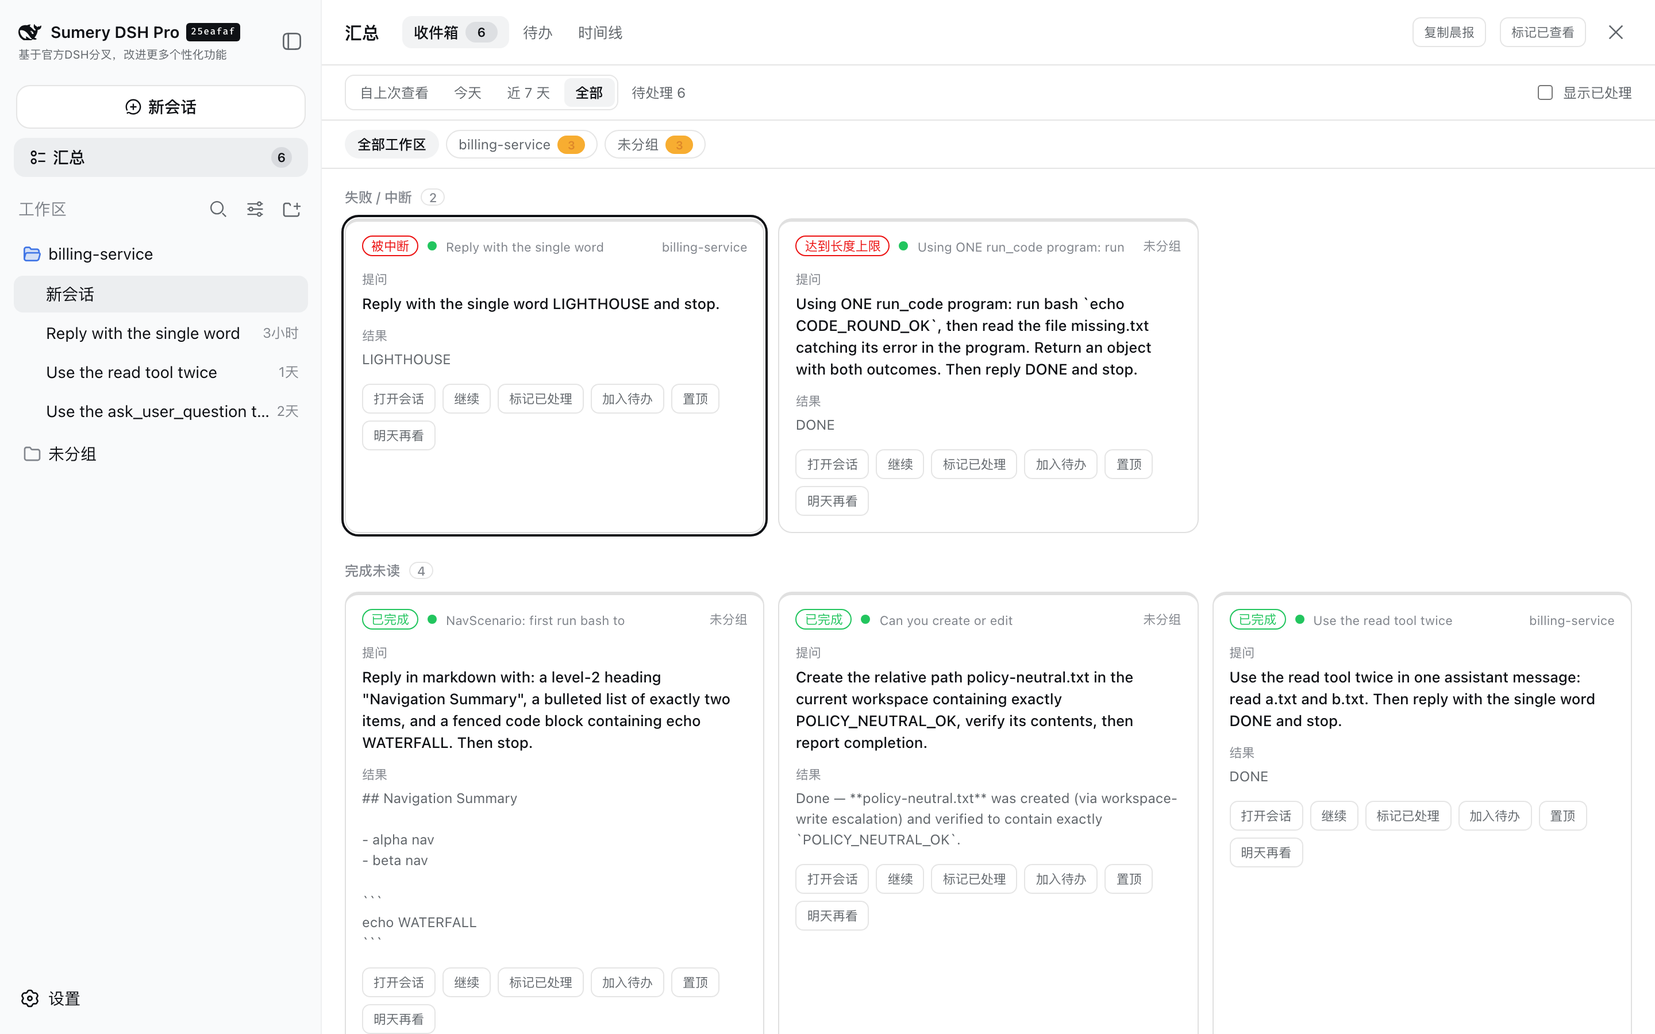
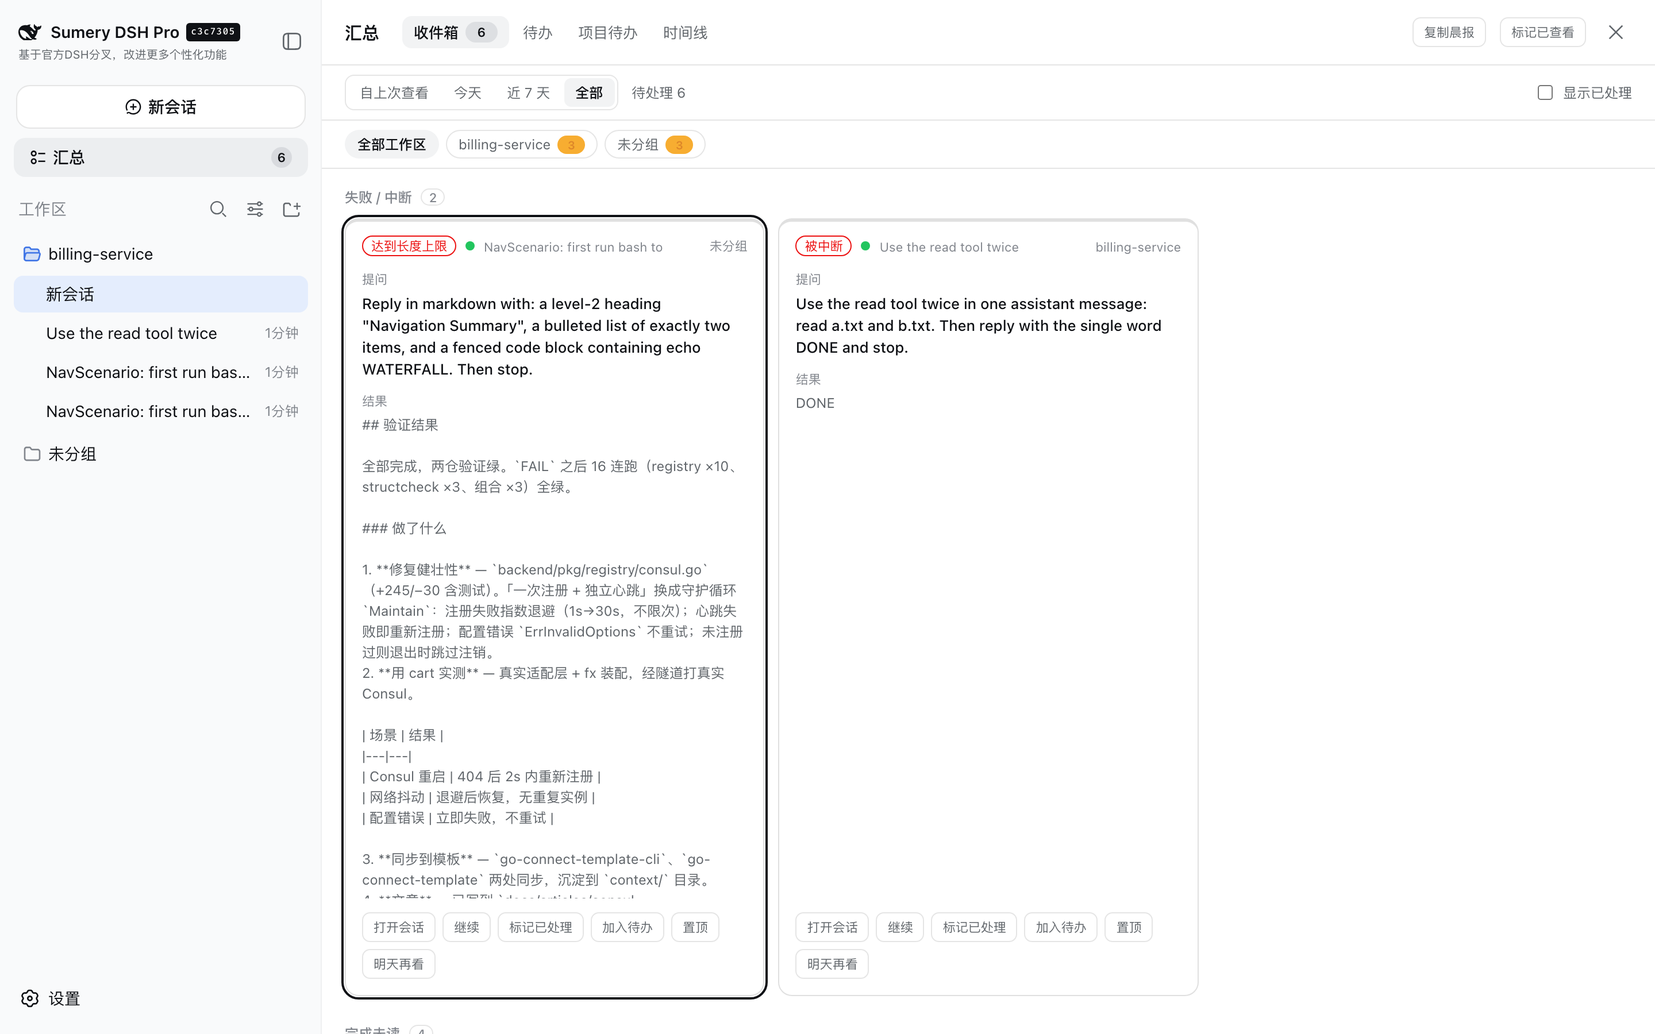
docs(readme): lead with the inbox, describe the card cap and sidebar reveal, and reword the run-from-source path

diff --git a/README.md b/README.md
@@ -6,6 +6,26 @@ English | [中文](README.zh.md)
 
 This is a personal fork of [deepseek-ai/deepseek-harness](https://github.com/deepseek-ai/deepseek-harness). Upstream is the source of truth for the project; this repository is not affiliated with DeepSeek AI and carries no support commitment.
 
+### The inbox: what needs you, across every workspace
+
+![The inbox on a working day: one failed/interrupted session and one finished-unread session across nine workspaces, with the time-window and status filters, the workspace chips, and the card actions; session names and text are blurred](docs/user/guide/inbox-overview.png)
+
+**A durable inbox instead of a green dot.** Work left running overnight across several workspaces left no record the next morning: the sidebar's "finished" dot was a browser-memory bit that cleared on click or refresh, and a session blocked on an approval waited unnoticed. The **汇总** entry under New Session now carries the number of sessions that need you and opens an inbox over the center column. Rows are sectioned by why they need attention — waiting for your reply, failed or interrupted, finished but unread, seen but not handled, running — with a time window that defaults to "since you last reviewed", workspace chips with per-workspace counts, and card actions to open, continue with a prefilled composer, mark handled, add a todo, pin, or snooze until tomorrow. `Ctrl+1` opens and closes the panel from anywhere, including mid-sentence in the composer, and the card actions ride a keyboard ring (`j`/`k`, `Enter`, `e`, `t`, `p`, `s`); "copy brief" puts the sections on the clipboard as Markdown. Every mark lives on the Host — which reply you saw, what you handled, what is snoozed or pinned — so it survives refresh, another browser, and a restart, and the number also prefixes the browser tab title. A card is never taller than the panel: its head and action row stay put while a long answer scrolls inside the card, and **打开会话** reveals the session in the sidebar — reopening a folded workspace, lifting the **Show more** cut, unfolding nested branches, and moving the selection onto that row — so the highlighted row is always the one you opened. A fourth tab, **项目待办**, lists the `TODO.md`-style documents found across the configured roots and every workspace.
+
+![The inbox over the center column: the failed/interrupted section, workspace chips with counts, a long answer scrolling inside its card with the actions pinned below, and the todo, project todo, and timeline tabs](docs/user/guide/inbox-panel.png)
+
+**Todos that point back at the conversation.** A todo is a Host record addressed to a session and, optionally, to one question inside it. Add one from a card, from the right-click menu on any session row, or from the todo tab's input; open it with "jump to that question", which scrolls the transcript to the exact question, paging back through history when it is not loaded yet, or with "continue", which opens the session with a continuation line in the composer. Sessions whose last turn did not finish appear as automatic todos until you mark them handled.
+
+![The todo tab: one manual todo joined with its session and question, and two automatic todos for a interrupted and a length-limited turn](docs/user/guide/inbox-todos.png)
+
+![The session row's right-click menu with Add to todos above Archive](docs/user/guide/session-context-menu-todo.png)
+
+**A per-question timeline.** The digest projection now retains each session's earlier questions with their outcome and changed-file count, so the timeline tab places every question on the day it was asked — a session worked on three days appears on three days — and a row opens the session at that question.
+
+![The timeline tab grouping questions by day, each with its workspace, session, and outcome](docs/user/guide/inbox-timeline.png)
+
+### Session file rail and the other additions
+
 **Why it exists.** The Web client shows a session's file work only where it happened — one diff card per `edit`/`write` tool row, plus the closing turn's produced-file chips. Reviewing what a session did to the workspace therefore means scrolling the whole transcript and rebuilding the per-file story by hand, and a long session buries the answer under hundreds of steps. Nothing showed which files the agent was touching right now, and nothing collected one file's repeated edits into one place.
 
 **What it adds.** A session file rail beside the transcript listing what the session read and changed, plus an inline side-by-side diff — before on the left, after on the right, paired line by line — that opens by default and is governed by a General setting. Descendant subagent sessions are read through the durable child catalog and merged in, one row per file with each segment labelled by the agent, turn, and tool that made it. The design, its rejected alternatives, and its known limits are recorded in [the file panel Agent Note](.agents/notes/implemented/feature/2026-08-26-web-session-file-panel.md).
@@ -62,20 +82,6 @@ In context, on a custom provider's editor card — the fold sits under the row i
 
 ![The Settings navigation: General, Models, Plugins, Agent presets, Vision tools, and Conversation layout, each with its own glyph](docs/user/guide/settings-sections-nav.png)
 
-**A durable inbox instead of a green dot.** Work left running overnight across several workspaces left no record the next morning: the sidebar's "finished" dot was a browser-memory bit that cleared on click or refresh, and a session blocked on an approval waited unnoticed. The **汇总** entry under New Session now carries the number of sessions that need you and opens an inbox over the center column. Rows are sectioned by why they need attention — waiting for your reply, failed or interrupted, finished but unread, seen but not handled, running — with a time window that defaults to "since you last reviewed", workspace chips with per-workspace counts, and card actions to open, continue with a prefilled composer, mark handled, add a todo, pin, or snooze until tomorrow. `Ctrl+1` opens and closes the panel from anywhere, including mid-sentence in the composer, and the card actions ride a keyboard ring (`j`/`k`, `Enter`, `e`, `t`, `p`, `s`); "copy brief" puts the sections on the clipboard as Markdown. Every mark lives on the Host — which reply you saw, what you handled, what is snoozed or pinned — so it survives refresh, another browser, and a restart, and the number also prefixes the browser tab title.
-
-![The inbox over the center column: failed/interrupted and finished-unread sections, workspace chips with counts, and the card actions](docs/user/guide/inbox-panel.png)
-
-**Todos that point back at the conversation.** A todo is a Host record addressed to a session and, optionally, to one question inside it. Add one from a card, from the right-click menu on any session row, or from the todo tab's input; open it with "jump to that question", which scrolls the transcript to the exact question, paging back through history when it is not loaded yet, or with "continue", which opens the session with a continuation line in the composer. Sessions whose last turn did not finish appear as automatic todos until you mark them handled.
-
-![The todo tab: one manual todo joined with its session and question, and two automatic todos for a interrupted and a length-limited turn](docs/user/guide/inbox-todos.png)
-
-![The session row's right-click menu with Add to todos above Archive](docs/user/guide/session-context-menu-todo.png)
-
-**A per-question timeline.** The digest projection now retains each session's earlier questions with their outcome and changed-file count, so the timeline tab places every question on the day it was asked — a session worked on three days appears on three days — and a row opens the session at that question.
-
-![The timeline tab grouping questions by day, each with its workspace, session, and outcome](docs/user/guide/inbox-timeline.png)
-
 **How the screenshots are made.** Every picture above is a real screen from this fork's own build, never a mock-up. To keep personal sessions and keys out of them, a second `dsh web` is started from the checkout's source against an isolated home (`DSH_HOME=/private/tmp/dsh-demo-home`, port 3099): its profile lists only the base bundle, the web app, and the vision bundle, and its `settings.yaml` declares a fictitious `acme-gateway` provider with an `acme-vision-think` model — no API key, no sessions, no workspace. The inbox pictures come from the same kind of isolated server, this time launched through the repository's own web test scaffold: six sessions are seeded from the e2e fixture logs under `apps/web/tests/snapshots/`, parsed with the repository's `parseSessionLog` and persisted through the real JSONL backend, two of them with their final `turn/end` rewritten to `interrupted` and `max-tokens` so the failed section has rows; Playwright at device scale 2 in `zh-CN` then adds a todo from a card, pins a row, switches tabs, and right-clicks a session row, and every picture is the screen at that moment. Playwright drives Firefox at device scale 2 in the light theme, once per language, and clicks through the same path a user would: Settings → Models → Edit → Customized settings → Advanced. The Models-page pictures were then verified as a round trip rather than a rendering: checking two more levels and saving through the card rewrote the isolated `settings.yaml` with `off: null` and `minimal: minimal`, and the server's `llm.models` reply listed all seven levels for that model. The fixture provider and the fork's own product chrome are the only content, so nothing needs masking; the demo server, browser sessions, home directory, and temporary files are removed afterwards, and the personal `~/.dsh` and port 3080 are never touched. Any regression in the pictured behavior shows up in `pnpm run test:gui` (the component and shell suites) and in `DSH_SNAPSHOT=replay pnpm run test:web` (the assembled browser).
 
 **Repository.** This fork lives at [github.com/lens077/deepseek-harness](https://github.com/lens077/deepseek-harness); its `main` tracks upstream `main` and adds the features above on top. File problems with the fork's additions as issues on the fork; upstream behavior, releases, plugin discovery, and the Discord community remain upstream's, linked below. Everything here — upstream code and the fork's additions alike — is under the [MIT license](LICENSE), and third-party licenses are disclosed in [THIRD_PARTY_NOTICES.md](THIRD_PARTY_NOTICES.md).
@@ -106,7 +112,7 @@ The command starts the Web UI at `http://127.0.0.1:3080` by default and opens it
 
 ### Run from source
 
-Clone this fork, not upstream: its `main` is the state the features above were built and verified on, and it is rebased onto upstream regularly, so a fresh clone of it is the safest working checkout.
+Run from this repository's source. It pulls from the official [deepseek-ai/deepseek-harness](https://github.com/deepseek-ai/deepseek-harness) regularly and resolves the merge conflicts; the repository is fully public and transparent, with no poisoning of any kind — every change is in the commit history.
 
 ```sh
 git clone https://github.com/lens077/deepseek-harness.git
@@ -118,7 +124,7 @@ pnpm dsh web
 
 `pnpm run build` prepares the repository artifacts. `pnpm dsh web` uses those built artifacts without rebuilding.
 
-Upstream publishes on its own schedule, so this fork may trail it by a few commits. To run the newest upstream code together with the fork's additions, start from upstream and merge the fork on top; a conflict here means the fork has not caught up with that upstream change yet, and the fork's `main` on its own remains the verified fallback.
+You can of course also start from the official repository and overlay this one on top — merge this fork's `main` into the official code:
 
 ```sh
 git clone https://github.com/deepseek-ai/deepseek-harness.git

diff --git a/README.zh.md b/README.zh.md
@@ -6,6 +6,24 @@
 
 这是 [deepseek-ai/deepseek-harness](https://github.com/deepseek-ai/deepseek-harness) 的个人 fork。上游是该项目的真相源；本仓库与 DeepSeek AI 无关联，也不承诺任何支持。
 
+### 汇总：跨所有工作区，哪些会话需要你
+
+**用持久的收件箱取代绿点。** 跨几个工作区跑了一夜的任务，第二天早上没有任何记录：侧边栏的"已完成"小圆点只是浏览器内存里的一个位，点一下或刷新就没了，卡在审批上的会话也无人察觉。「新会话」下方的 **汇总** 入口现在携带需要你处理的会话数，并在中间栏打开一个收件箱。行按需要关注的原因分区——等你回复、失败或中断、完成但未读、已读未处理、运行中——时间窗默认为"自上次查看"，工作区 chip 带各自的计数，卡片提供打开、带预填输入框的继续、标记已处理、加入待办、置顶、明天再看。`Ctrl+1` 可从任何位置开关面板，在输入框里打到一半也能用；卡片操作则在键盘环上（`j`/`k`、`Enter`、`e`、`t`、`p`、`s`）；"复制晨报"把各分区以 Markdown 放进剪贴板。每个标记都存在 Host 上——看过哪条回复、处理了什么、延后或置顶了什么——因此刷新、换浏览器、重启都还在，这个数字也会前缀到浏览器标签页标题。卡片永远不会高过面板：头部与操作行固定不动，长回答在卡片内部滚动；**打开会话** 会在侧边栏揭示该会话——重新展开折叠的工作区、撤销**显示更多**截断、展开嵌套分支、并把选区移到该行——因此高亮的行始终就是你打开的那一个。第四个标签 **项目待办** 列出配置的根目录与每个工作区里找到的 `TODO.md` 类文档。
+
+![覆盖中间栏的收件箱：失败/中断分区、带计数的工作区 chip、在卡片内部滚动的长回答与固定在下方的操作行，以及待办、项目待办、时间线标签](docs/user/guide/inbox-panel.png)
+
+**指回对话的待办。** 待办是 Host 上的一条记录，指向一个会话，并可选地指向其中某一问。可以从卡片、从任意会话行的右键菜单、或从待办标签的输入框添加；用"跳到那一问"打开时对话会滚到那条提问，历史尚未加载时会向前翻页；用"继续"打开时会在输入框预填一行接续语。最后一轮没有正常完成的会话会作为自动待办出现，直到你标记已处理。
+
+![待办标签：一条与会话和提问连接的手动待办，以及一条被中断、一条达到长度上限的自动待办](docs/user/guide/inbox-todos.png)
+
+![会话行的右键菜单，「加入待办」位于「归档」之上](docs/user/guide/session-context-menu-todo.png)
+
+**按提问的时间线。** 汇总投影现在保留每个会话更早的提问及其结果和改动文件数，因此时间线标签把每一问放在它被提出的那一天——一个会话做了三天就出现在三天里——点一行即可在那一问处打开会话。
+
+![时间线标签按天分组提问，每条带工作区、会话与结果](docs/user/guide/inbox-timeline.png)
+
+### 会话文件栏与其余改进
+
 **为什么存在。** Web 客户端只在文件改动发生的地方展示它——`edit`/`write` 工具行各自一张 diff 卡片，外加收尾回合的产出文件 chips。于是要审查一个会话对工作区做了什么，就得滚完整条转录并在脑子里按文件重建过程，而长会话会把答案埋在几百步之下。此前没有任何地方显示 agent 此刻正在动哪些文件，也没有任何地方把同一个文件的多次修改收拢到一处。
 
 **它加了什么。** 转录区旁边一条会话文件侧栏，列出本会话读过和改过的文件；以及一份内联左右对照 diff——左为修改前、右为修改后，逐行配对——默认展开，并由「通用」设置里的一项控制。后代子代理会话经持久化的子会话目录读取并合并进来，每个文件一行，每段标注做出该改动的 agent、轮次与工具。设计本身、被否决的替代方案与已知限制记录在[文件面板 Agent Note](.agents/notes/implemented/feature/2026-08-26-web-session-file-panel.zh.md)。
@@ -62,20 +80,6 @@
 
 ![设置导航：通用设置、模型、插件、Agent 预设、视觉工具、对话布局，各有自己的图标](docs/user/guide/settings-sections-nav.zh.png)
 
-**用持久的收件箱取代绿点。** 跨几个工作区跑了一夜的任务，第二天早上没有任何记录：侧边栏的"已完成"小圆点只是浏览器内存里的一个位，点一下或刷新就没了，卡在审批上的会话也无人察觉。「新会话」下方的 **汇总** 入口现在携带需要你处理的会话数，并在中间栏打开一个收件箱。行按需要关注的原因分区——等你回复、失败或中断、完成但未读、已读未处理、运行中——时间窗默认为"自上次查看"，工作区 chip 带各自的计数，卡片提供打开、带预填输入框的继续、标记已处理、加入待办、置顶、明天再看。`Ctrl+1` 可从任何位置开关面板，在输入框里打到一半也能用；卡片操作则在键盘环上（`j`/`k`、`Enter`、`e`、`t`、`p`、`s`）；"复制晨报"把各分区以 Markdown 放进剪贴板。每个标记都存在 Host 上——看过哪条回复、处理了什么、延后或置顶了什么——因此刷新、换浏览器、重启都还在，这个数字也会前缀到浏览器标签页标题。
-
-![覆盖中间栏的收件箱：失败/中断与完成未读两个分区、带计数的工作区 chip，以及卡片操作](docs/user/guide/inbox-panel.png)
-
-**指回对话的待办。** 待办是 Host 上的一条记录，指向一个会话，并可选地指向其中某一问。可以从卡片、从任意会话行的右键菜单、或从待办标签的输入框添加；用"跳到那一问"打开时对话会滚到那条提问，历史尚未加载时会向前翻页；用"继续"打开时会在输入框预填一行接续语。最后一轮没有正常完成的会话会作为自动待办出现，直到你标记已处理。
-
-![待办标签：一条与会话和提问连接的手动待办，以及一条被中断、一条达到长度上限的自动待办](docs/user/guide/inbox-todos.png)
-
-![会话行的右键菜单，「加入待办」位于「归档」之上](docs/user/guide/session-context-menu-todo.png)
-
-**按提问的时间线。** 汇总投影现在保留每个会话更早的提问及其结果和改动文件数，因此时间线标签把每一问放在它被提出的那一天——一个会话做了三天就出现在三天里——点一行即可在那一问处打开会话。
-
-![时间线标签按天分组提问，每条带工作区、会话与结果](docs/user/guide/inbox-timeline.png)
-
 **截图是怎么拍的。** 上面每一张图都是这个 fork 自己构建出来的真实界面，不是效果图。为了不把个人会话和密钥拍进去，会从 checkout 的源码另起一个 `dsh web`，指向一个隔离的家目录（`DSH_HOME=/private/tmp/dsh-demo-home`，3099 端口）：它的 profile 只列出基础 bundle、Web 应用和视觉 bundle，`settings.yaml` 只声明一个虚构的 `acme-gateway` 提供方和一个 `acme-vision-think` 模型——没有 API 密钥、没有会话、没有工作区。收件箱的几张图来自同类的隔离服务，这次通过仓库自己的 Web 测试脚手架启动：用 `apps/web/tests/snapshots/` 下的 e2e fixture 日志播种六个会话，经仓库的 `parseSessionLog` 解析后通过真实的 JSONL 后端持久化，其中两个把最后的 `turn/end` 改写为 `interrupted` 与 `max-tokens`，以便失败分区有内容；随后 Playwright 以设备缩放 2、`zh-CN` 从卡片加入一条待办、置顶一行、切换标签、右键一个会话行，每张图都是当时的真实画面。Playwright 以设备缩放 2、浅色主题驱动 Firefox，每种语言各跑一遍，并沿用户真实的路径点击：设置 → 模型 → 编辑 → 自定义设置 → 高级。模型页的图随后按一次往返而非一次渲染来核验：再勾选两个档位并通过卡片保存，隔离的 `settings.yaml` 被改写为带 `off: null` 与 `minimal: minimal`，服务端 `llm.models` 的回复也为该模型列出了全部七个档位。画面里只有虚构提供方和 fork 自己的产品外壳，因此无需打码；演示服务、浏览器会话、家目录和临时文件事后全部删除，个人的 `~/.dsh` 与 3080 端口自始至终不被触碰。图中行为一旦回退，会在 `pnpm run test:gui`（组件与外壳测试）和 `DSH_SNAPSHOT=replay pnpm run test:web`（组装后的浏览器）中暴露。
 
 **仓库。** 这个 fork 位于 [github.com/lens077/deepseek-harness](https://github.com/lens077/deepseek-harness)；其 `main` 跟随上游 `main`，并在其上叠加上述功能。fork 新增部分的问题请提到 fork 的 issues；上游行为、发布、插件发现与 Discord 社区仍归上游，见下文链接。这里的一切——上游代码与 fork 的新增——都采用 [MIT 许可证](LICENSE)，第三方许可证在 [THIRD_PARTY_NOTICES.md](THIRD_PARTY_NOTICES.md) 中披露。
@@ -110,7 +114,7 @@ npx @deepseek-ai/dsh web
 
 ### 从源码运行
 
-请克隆本 fork 而不是上游：它的 `main` 就是上面这些功能构建并验证过的状态，并且会定期跟进上游，所以直接克隆本仓库是最保险的可用状态。
+从本仓库源码运行。本仓库会定期从官方 [deepseek-ai/deepseek-harness](https://github.com/deepseek-ai/deepseek-harness) 拉取并合并冲突；仓库完全公开、透明，没有任何投毒行为，每一处改动都能在提交历史里查到。
 
 ```sh
 git clone https://github.com/lens077/deepseek-harness.git
@@ -122,7 +126,7 @@ pnpm dsh web
 
 `pnpm run build` 会准备仓库产物。`pnpm dsh web` 会直接使用这些已构建产物，不会重新构建。
 
-上游按自己的节奏发布，本 fork 可能落后几个提交。若想在最新的上游代码上使用本 fork 的新增功能，可以先拉取官方仓库，再把本 fork 合并上去；合并冲突意味着本 fork 尚未跟进那次上游改动，此时本 fork 自己的 `main` 仍是经过验证的兜底选择。
+当然，你也可以先从官方仓库拉取，再用本仓库覆盖上去——把本 fork 的 `main` 合并进官方代码即可：
 
 ```sh
 git clone https://github.com/deepseek-ai/deepseek-harness.git
